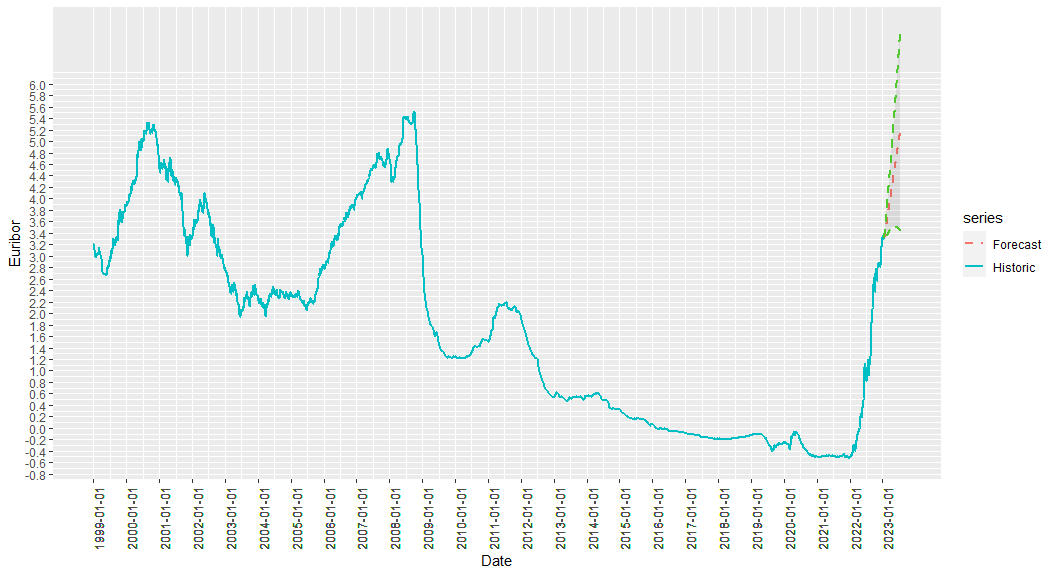
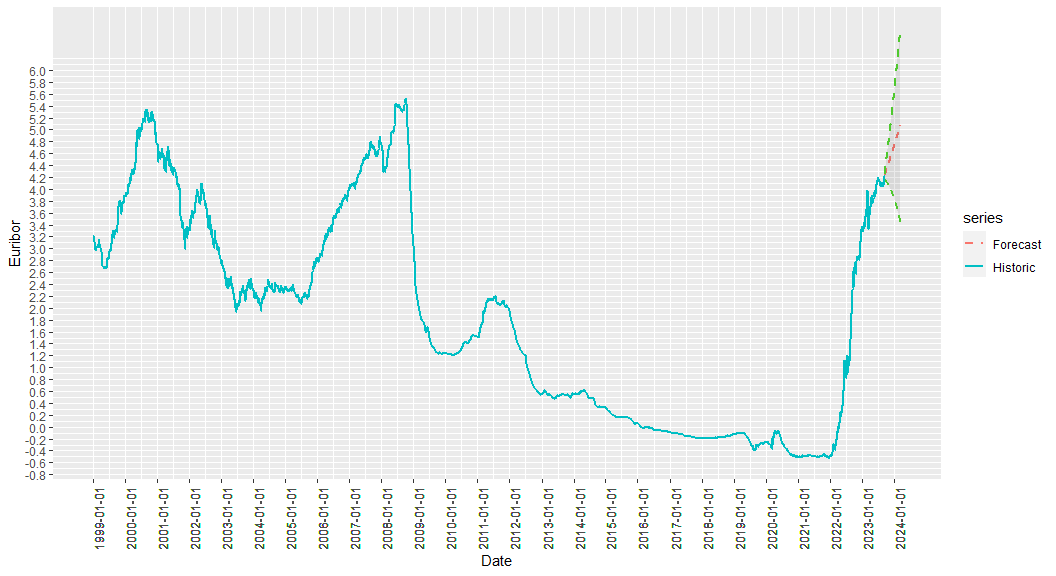
forecast update

diff --git a/Euribor_Markown.md b/Euribor_Markown.md
@@ -19,35 +19,38 @@ days.
     ## 6 1999-01-08 3.139
 
     ##            date  rate
-    ## 6174 2023-01-12 3.325
-    ## 6175 2023-01-13 3.315
-    ## 6176 2023-01-16 3.332
-    ## 6177 2023-01-17 3.339
-    ## 6178 2023-01-18 3.311
-    ## 6179 2023-01-19 3.300
+    ## 6344 2023-09-13 4.112
+    ## 6345 2023-09-14 4.159
+    ## 6346 2023-09-15 4.169
+    ## 6347 2023-09-18 4.191
+    ## 6348 2023-09-19 4.216
+    ## 6349 2023-09-20 4.222
 
 ## Preview Forecast Rates Dataset
 
     ##         date forecast    lo_80    hi_80    lo_95    hi_95
-    ## 1 2023-01-20 3.306838 3.279875 3.333801 3.265601 3.348074
-    ## 2 2023-01-21 3.316290 3.275304 3.357275 3.253608 3.378972
-    ## 3 2023-01-22 3.326659 3.273980 3.379339 3.246093 3.407225
-    ## 4 2023-01-23 3.337223 3.274345 3.400102 3.241059 3.433388
-    ## 5 2023-01-24 3.347842 3.275685 3.419998 3.237488 3.458196
-    ## 6 2023-01-25 3.358473 3.277652 3.439294 3.234868 3.482077
+    ## 1 2023-09-21 4.228672 4.200063 4.257281 4.184918 4.272426
+    ## 2 2023-09-22 4.234248 4.191558 4.276938 4.168959 4.299537
+    ## 3 2023-09-23 4.239396 4.184492 4.294300 4.155427 4.323365
+    ## 4 2023-09-24 4.244325 4.178509 4.310142 4.143668 4.344983
+    ## 5 2023-09-25 4.249148 4.173342 4.324954 4.133213 4.365084
+    ## 6 2023-09-26 4.253919 4.168804 4.339034 4.123747 4.384091
 
     ##           date forecast    lo_80    hi_80    lo_95    hi_95
-    ## 175 2023-07-13 5.155899 3.460153 6.851644 2.562479 7.749318
-    ## 176 2023-07-14 5.166534 3.458389 6.874679 2.554151 7.778917
-    ## 177 2023-07-15 5.177170 3.456595 6.897744 2.545778 7.808562
-    ## 178 2023-07-16 5.187806 3.454772 6.920839 2.537360 7.838251
-    ## 179 2023-07-17 5.198441 3.452919 6.943963 2.528896 7.867986
-    ## 180 2023-07-18 5.209077 3.451037 6.967117 2.520387 7.897767
+    ## 175 2024-03-13 5.051651 3.479726 6.623576 2.647599 7.455703
+    ## 176 2024-03-14 5.056371 3.473351 6.639391 2.635350 7.477392
+    ## 177 2024-03-15 5.061091 3.466950 6.655232 2.623063 7.499119
+    ## 178 2024-03-16 5.065811 3.460525 6.671098 2.610737 7.520885
+    ## 179 2024-03-17 5.070531 3.454074 6.686988 2.598373 7.542689
+    ## 180 2024-03-18 5.075251 3.447598 6.702904 2.585970 7.564532
 
-Last historic date is 2023-01-19, forecast range went from 2023-01-20 to
-2023-07-18.
+Last historic date is 2023-09-20, forecast range went from 2023-09-21 to
+2024-03-18.
 
 ## 1 Year Historical + Forecast with 80% & 95% confidence intervals
+
+    ## Warning: Using `size` aesthetic for lines was deprecated in ggplot2 3.4.0.
+    ## ℹ Please use `linewidth` instead.
 
 ![](Euribor_Markown_files/figure-gfm/one_historical_year_and_forecast_period-1.png)<!-- -->
 
